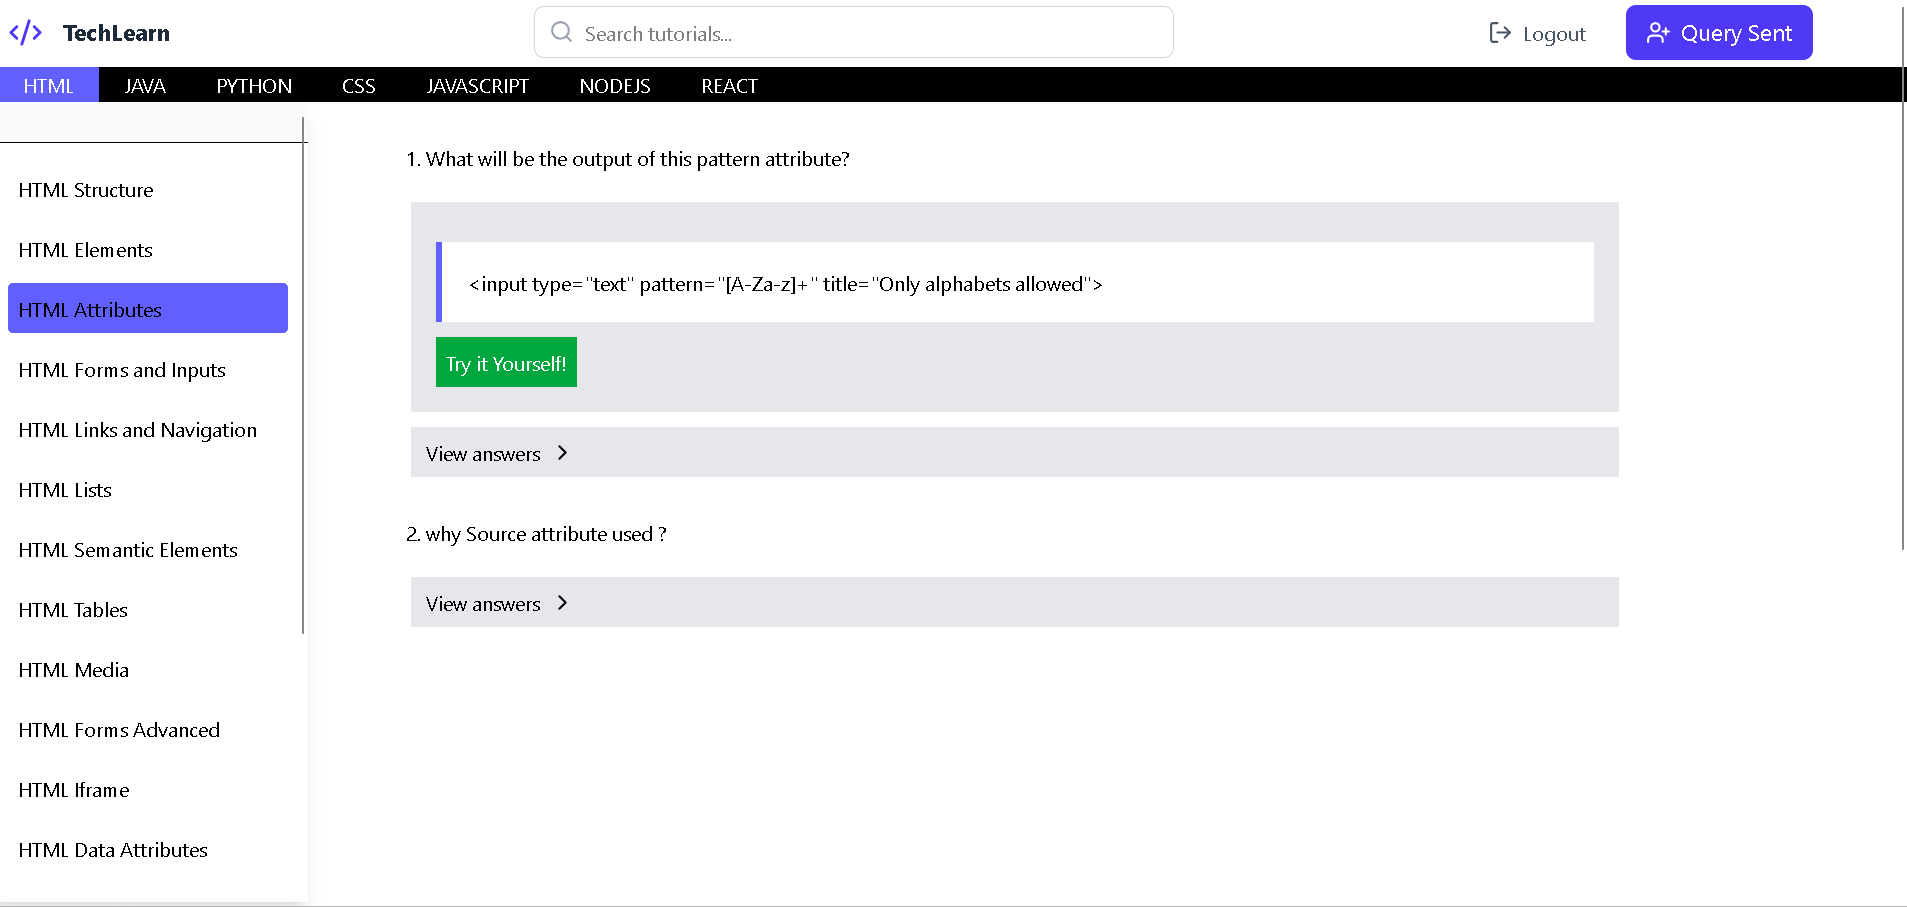
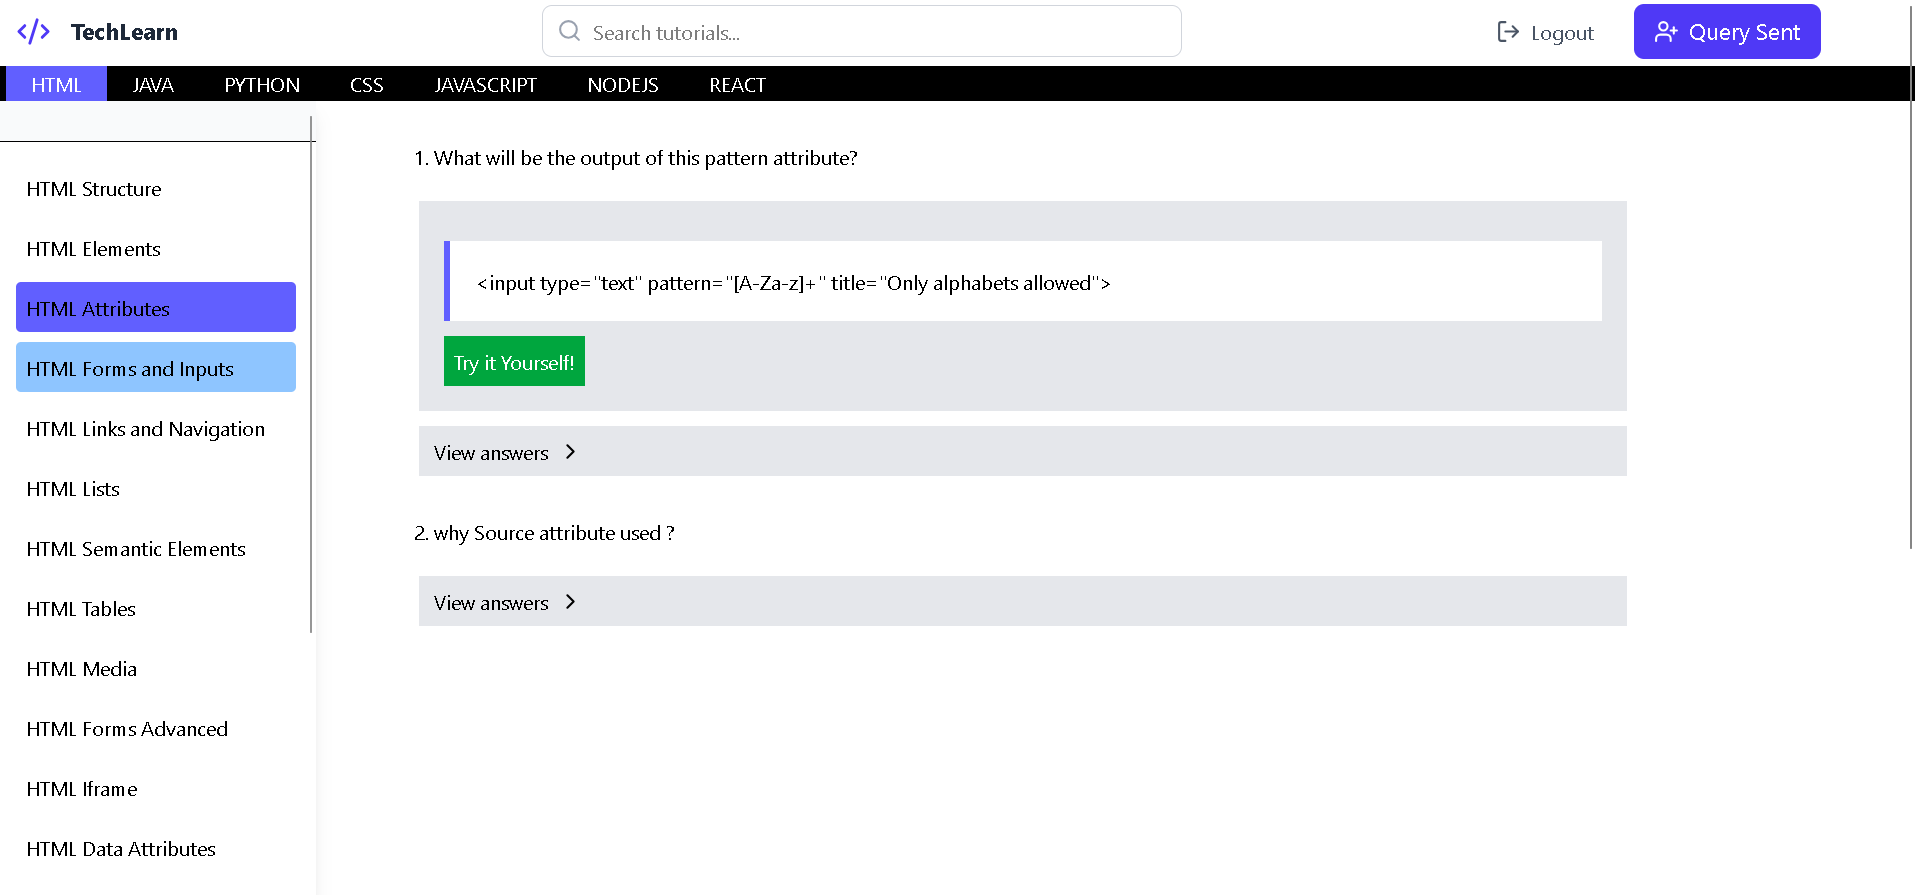
fix projects card

diff --git a/frontend/src/router/Projects.jsx b/frontend/src/router/Projects.jsx
@@ -3,40 +3,64 @@ import React, { useEffect, useRef, useState } from "react";
 import { ExternalLink, Github } from "lucide-react";
 import { motion } from "framer-motion";
 
+// Importing project images
+import interviewwebsite from "../assets/interview.png";
+import busticket from "../assets/bus ticket book.png";
+import vidshare from "../assets/vidshare.png";
+import blog from "../assets/blog.png";
+import taskmanager from "../assets/task.png";
+
 const Projects = () => {
   const projects = [
     {
       id: 1,
-      title: "NetflixGPT",
+      title: "Interview Prep Website",
       description:
-        "Movie discovery app with Firebase authentication and recommendations.",
-      image:
-        "https://images.pexels.com/photos/3184360/pexels-photo-3184360.jpeg?auto=compress&cs=tinysrgb&w=800",
-      technologies: ["React", "Firebase", "TMDB API", "Tailwind CSS"],
-      liveUrl: "#",
-      githubUrl: "#",
+        "A MERN-based interview preparation platform with authentication, resources, and practice tests.",
+      image: interviewwebsite,
+      technologies: ["MERN Stack", "Tailwind CSS", "JWT Auth"],
+      liveUrl: "https://interview-website-nine.vercel.app/",
+      githubUrl: "https://github.com/pradip2061/Interview-Website",
     },
     {
       id: 2,
-      title: "Sky-Weather",
+      title: "Bus Ticket Booking",
       description:
-        "Real-time weather dashboard with forecasts and location-based insights.",
-      image:
-        "https://images.pexels.com/photos/1118873/pexels-photo-1118873.jpeg?auto=compress&cs=tinysrgb&w=800",
-      technologies: ["React", "OpenWeather API", "Framer Motion"],
-      liveUrl: "#",
-      githubUrl: "#",
+        "Online bus ticket booking system with seat selection, payments, and booking history.",
+      image: busticket,
+      technologies: ["MERN Stack", "Tailwind CSS", "Stripe"],
+      liveUrl: "https://bus-ticket-b9go.vercel.app/",
+      githubUrl: "https://github.com/pradip2061/bus-ticket",
     },
     {
       id: 3,
-      title: "E-Commerce Platform",
+      title: "VidShare",
       description:
-        "Modern e-commerce platform with payment integration and product filtering.",
-      image:
-        "https://images.pexels.com/photos/230544/pexels-photo-230544.jpeg?auto=compress&cs=tinysrgb&w=800",
-      technologies: ["Next.js", "Stripe", "MongoDB"],
-      liveUrl: "#",
-      githubUrl: "#",
+        "A video-sharing platform like TikTok/YouTube built with MERN and cloud storage integration.",
+      image: vidshare,
+      technologies: ["MERN Stack", "Tailwind CSS", "Cloudinary"],
+      liveUrl: "https://reel-website-6bav.vercel.app",
+      githubUrl: "https://github.com/pradip2061/reel-website",
+    },
+    {
+      id: 4,
+      title: "Blog Platform",
+      description:
+        "A blogging platform with authentication, markdown editor, and comments system.",
+      image: blog,
+      technologies: ["MERN Stack", "Tailwind CSS", "JWT Auth"],
+      liveUrl: "https://personal-blog-delta-ashen.vercel.app/",
+      githubUrl: "https://github.com/pradip2061/PersonalBlog",
+    },
+    {
+      id: 5,
+      title: "Task Manager",
+      description:
+        "A collaborative task manager with real-time updates using WebSockets.",
+      image: taskmanager,
+      technologies: ["MERN Stack", "Tailwind CSS", "Socket.io"],
+      liveUrl: "https://task-manager-vert-sigma.vercel.app/",
+      githubUrl: "https://github.com/pradip2061/Task-Manager",
     },
   ];
 
@@ -70,7 +94,7 @@ const Projects = () => {
             My <span className="text-primary-500">Projects</span>
           </h2>
           <p className="text-gray-600 dark:text-gray-400 text-base sm:text-lg max-w-2xl mx-auto">
-            Scroll down to explore my projects — only the focused card stays clear.
+            Scroll down to explore my MERN stack projects — only the focused card stays clear.
           </p>
         </div>
 
